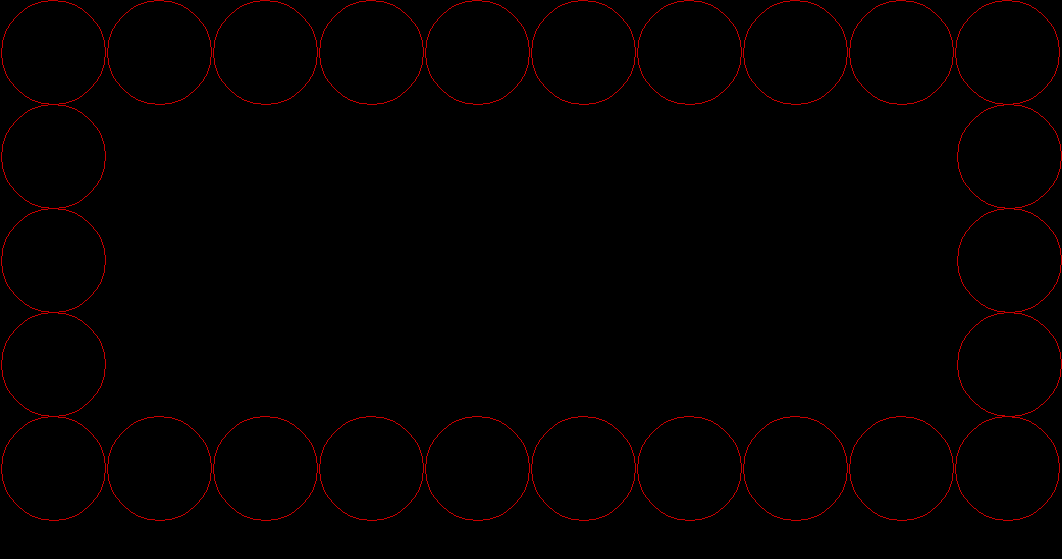
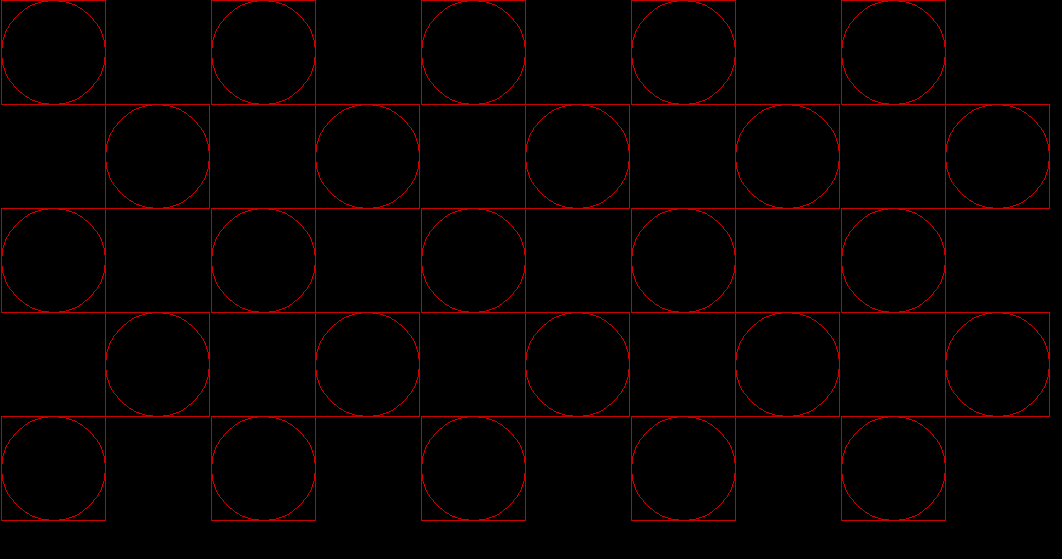
Alternating pattern fixed! Nice!

diff --git a/src/patterns/AlternatingPattern.java b/src/patterns/AlternatingPattern.java
@@ -7,38 +7,38 @@ public class AlternatingPattern implements Pattern {
 	private int width;
 	private int height;
 	private Rectangle canvasSize;
-	private static int alternatingInt = 0;
 
 	@Override
 	public int xInCanvas(int xCursor, int yCursor) {
 		xCursor += getWidth() * 2;
+		// if (yCursor == 0 && xCursor == getWidth() * 2) {
+		// xCursor = getWidth();
+		// }
 		if (xCursor >= canvasSize.getWidth()) {
 			if (yInCanvas(xCursor, yCursor) != -1) {
-				if (alternatingInt % 2 == 0) {
+				if (yInCanvas(xCursor, yCursor) / getHeight() % 2 == 0) {
 					xCursor = getWidth();
-					alternatingInt++;
 				} else {
 					xCursor = getWidth() * 2;
-					alternatingInt++;
 				}
 			} else {
 				// Stop
 				return -1;
 			}
 		}
-		return xCursor;
+		return xCursor - getWidth() + 1;
 	}
 
 	@Override
 	public int yInCanvas(int xCursor, int yCursor) {
-		if (xCursor + getWidth() >= canvasSize.getWidth()) {
+		if (xCursor + (getWidth() * 2) >= canvasSize.getWidth()) {
 			// new line
 			yCursor += getHeight();
 			if (yCursor + getHeight() >= canvasSize.getHeight()) {
 				// Stop
 				return -1;
 			}
-			return yCursor - getHeight();
+			return yCursor;
 		}
 		return yCursor;
 	}
@@ -71,10 +71,6 @@ public class AlternatingPattern implements Pattern {
 	@Override
 	public void setCanvasSize(Rectangle canvasSize) {
 		this.canvasSize = canvasSize;
-	}
-
-	public static void setAlternatingInt(int i) {
-		alternatingInt = i;
 	}
 
 }

diff --git a/src/main/ShapePanel.java b/src/main/ShapePanel.java
@@ -986,11 +986,9 @@ public class ShapePanel extends JPanel {
 			s.drawShape(g, pngGraphics, outlineColor);
 			ShapeAbstract.setXCursor(0);
 			ShapeAbstract.setYCursor(0);
-			AlternatingPattern.setAlternatingInt(0);
 			ShapeAbstract.setCrossAlternatingInt(-1);
 		}
 		// Finished drawing. Reset variables
-		AlternatingPattern.setAlternatingInt(0);
 		ShapeAbstract.setCrossAlternatingInt(0);
 		allShapes.addAll(shapes);
 		shapes = new ArrayList<Shape>();

diff --git a/src/shapes/ShapeAbstract.java b/src/shapes/ShapeAbstract.java
@@ -59,6 +59,7 @@ public abstract class ShapeAbstract implements Shape {
 		} else if (pattern == DrawPattern.ALIGNED) {
 			p = new AlignedPattern();
 		} else if (pattern == DrawPattern.ALTERNATING) {
+			xCursor -= width;
 			p = new AlternatingPattern();
 		} else if (pattern == DrawPattern.BORDERING) {
 			p = new BorderingPattern();
